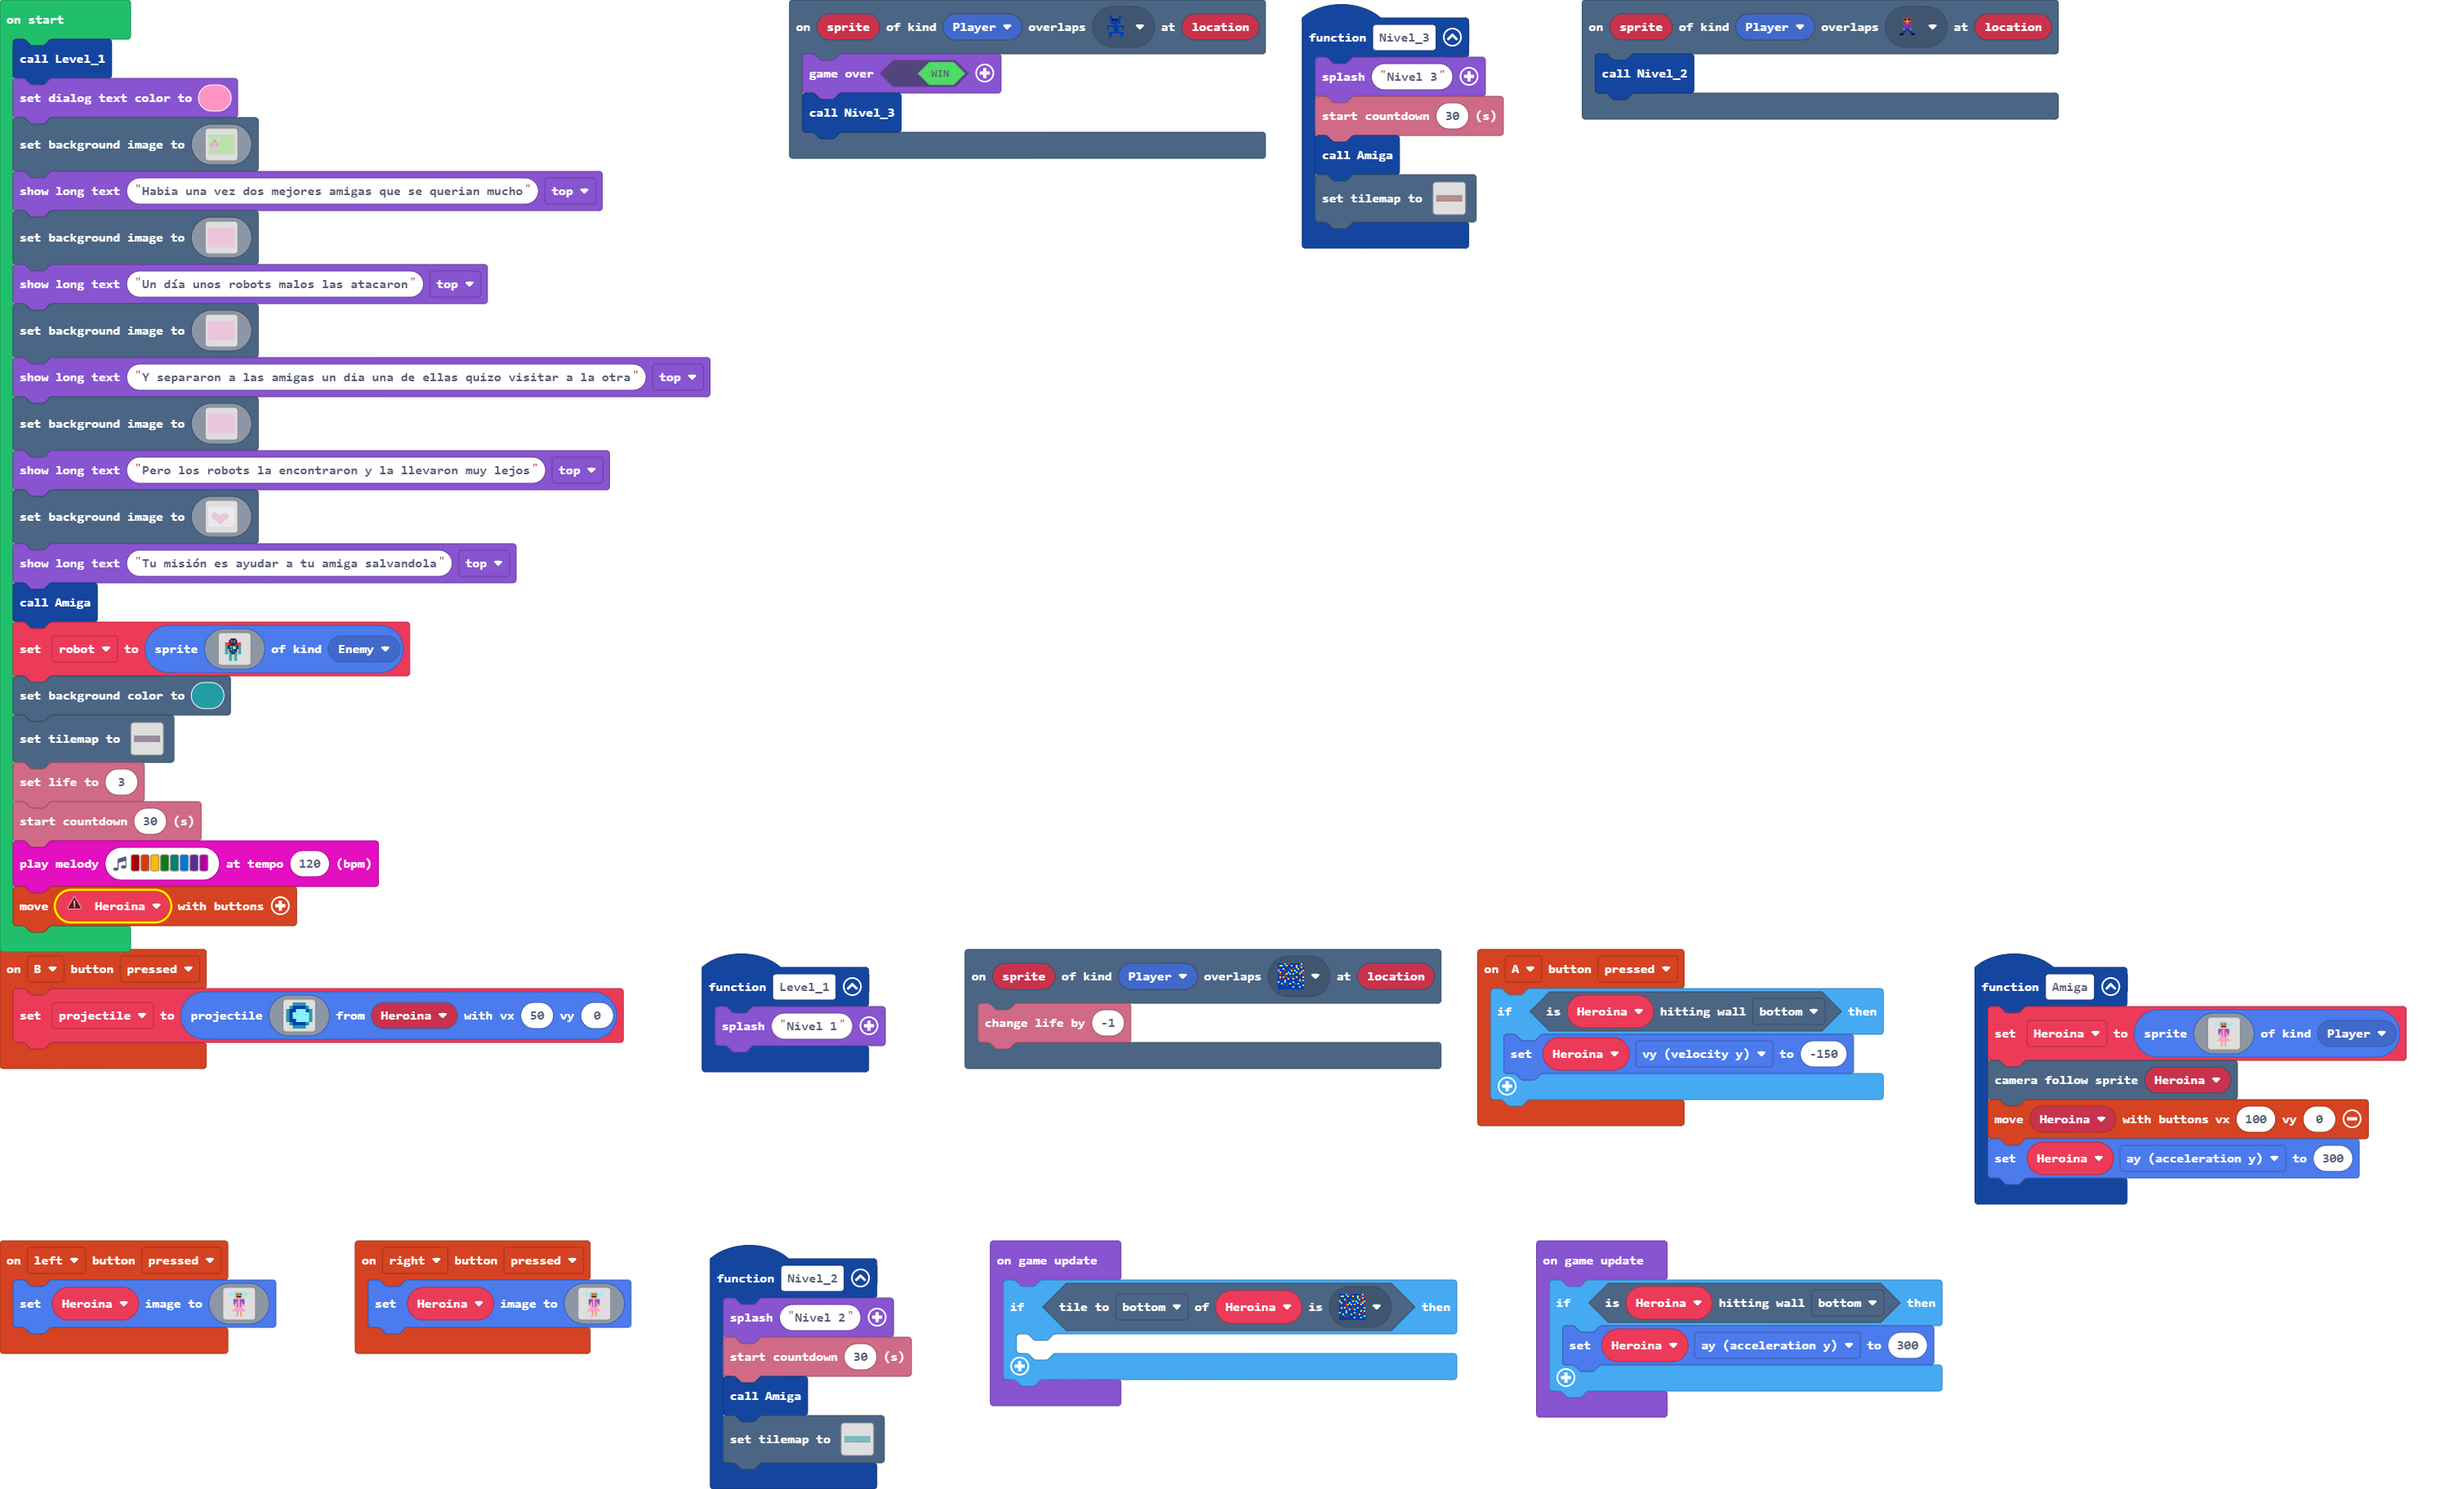
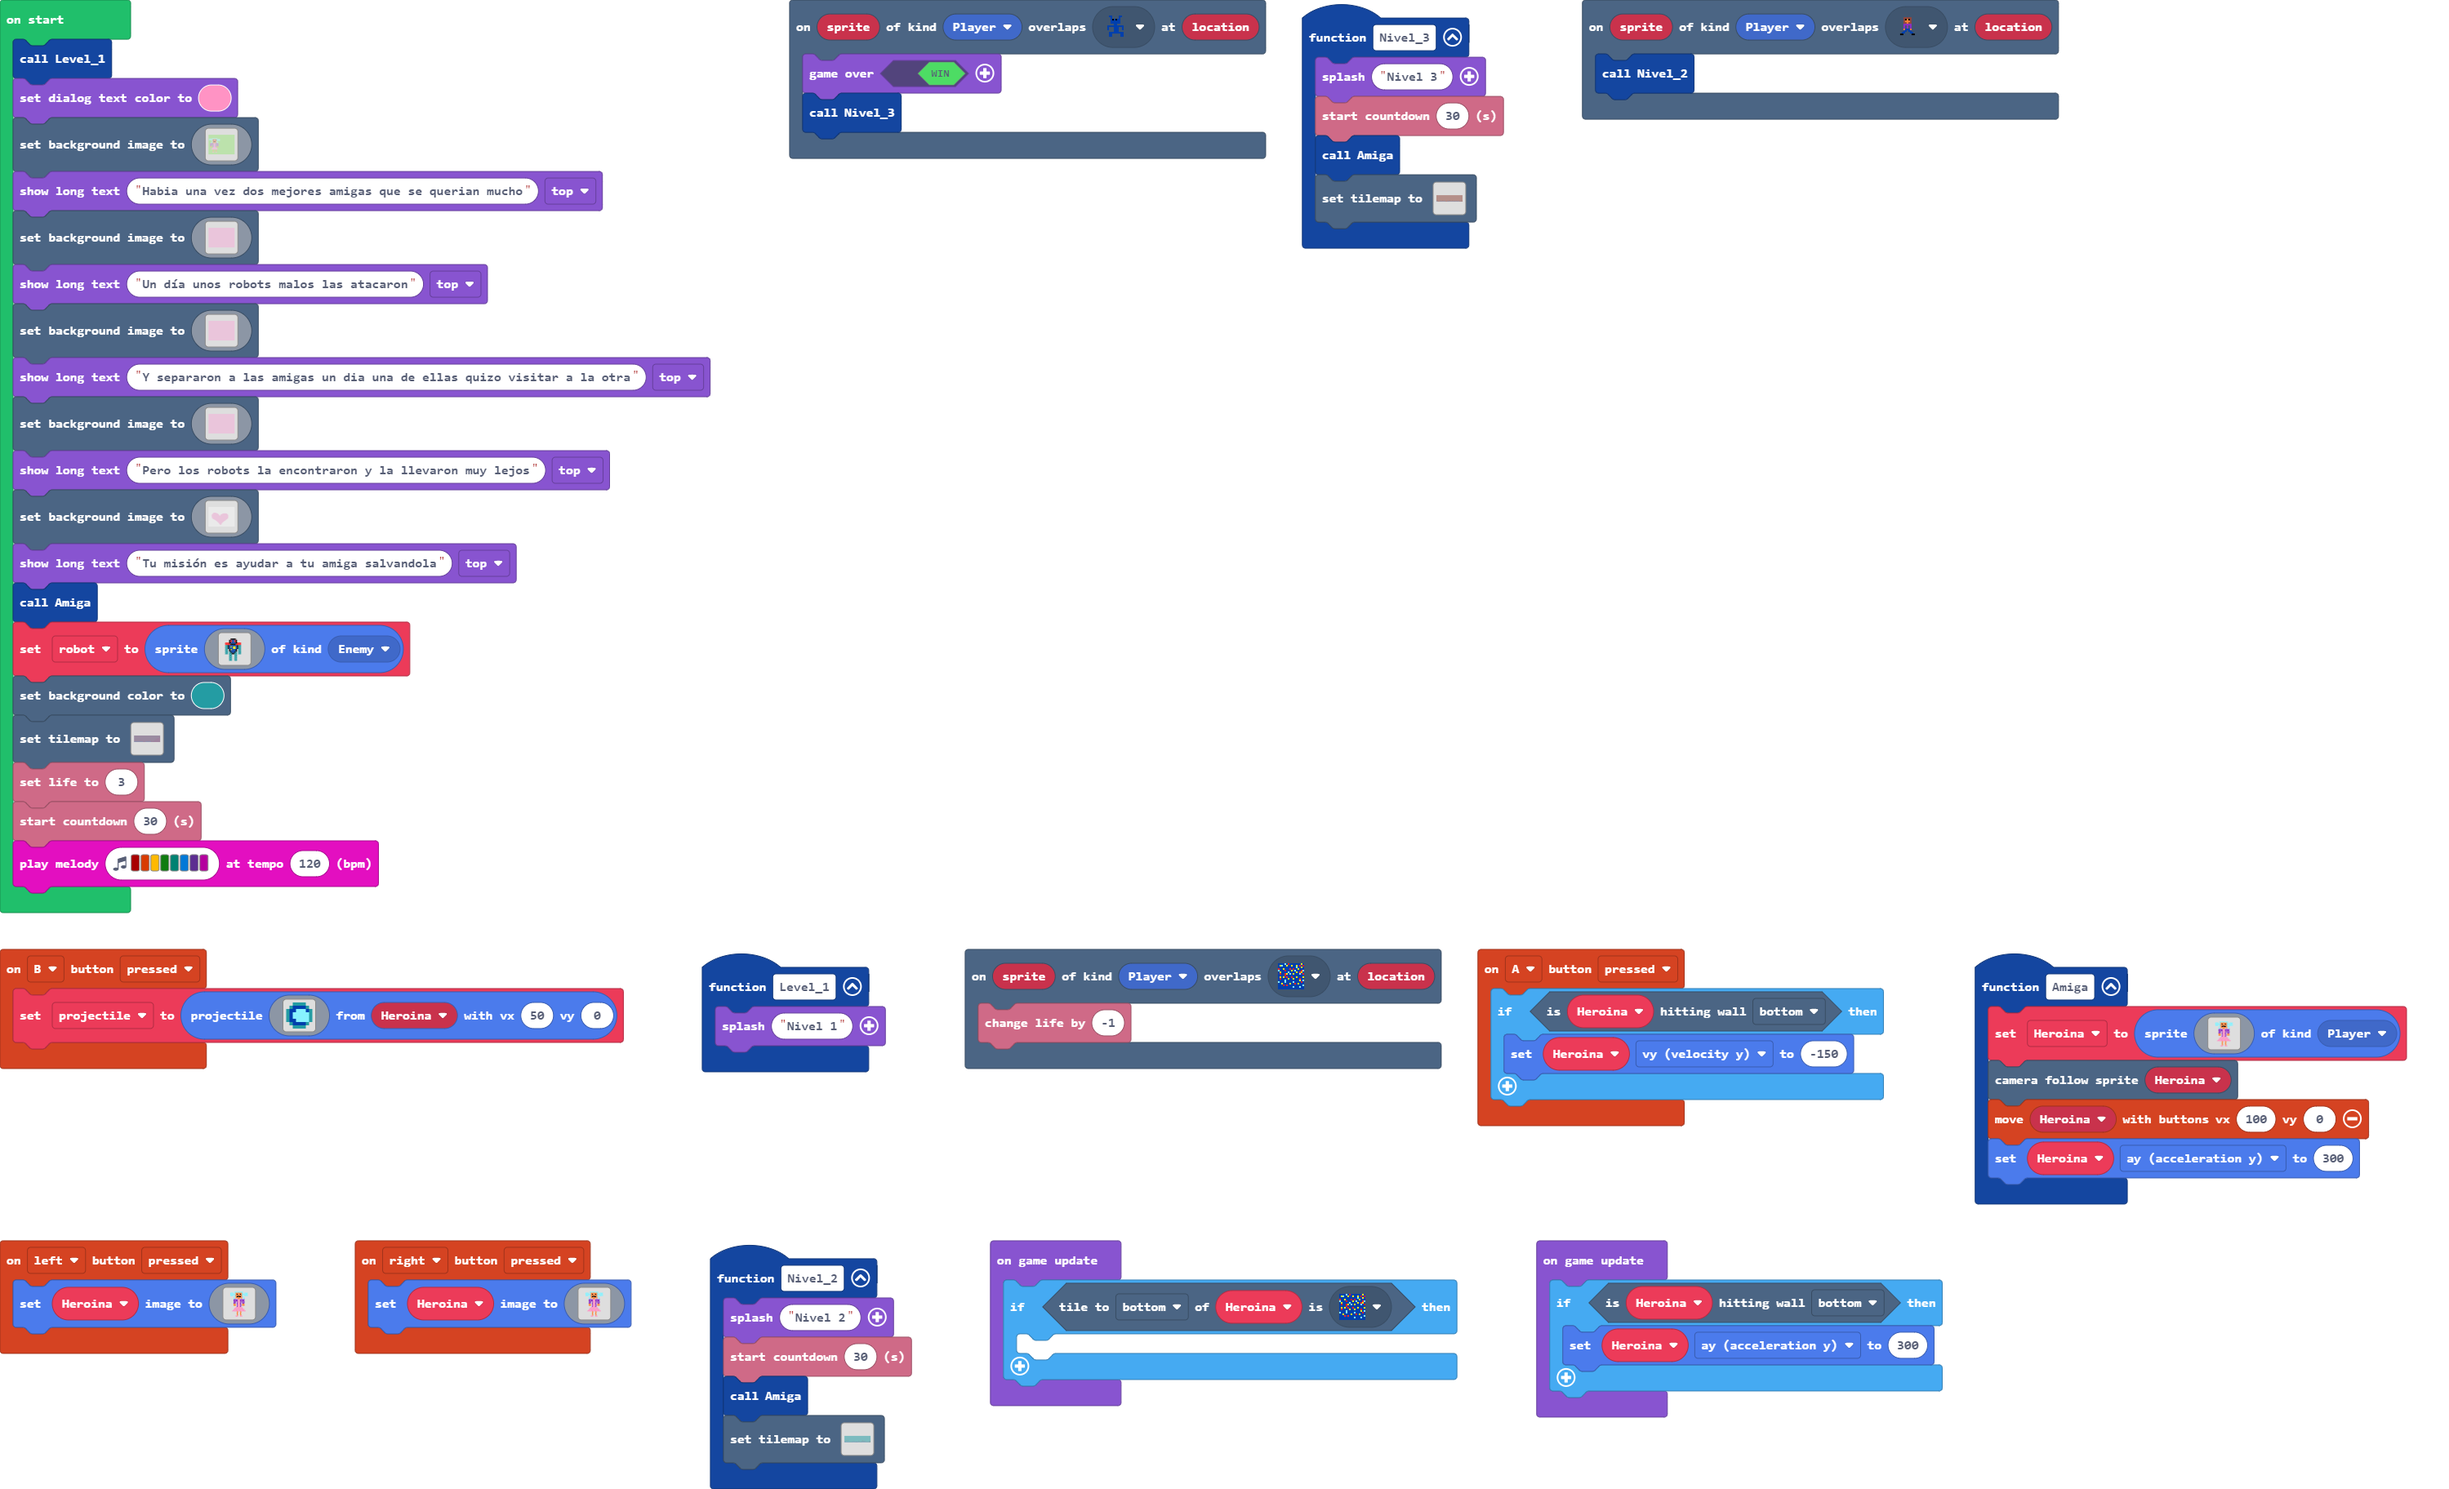
borre codigo de prueba

Changed region(s): [[0.0, 0.5938, 0.124, 0.6562]]

diff --git a/main.ts b/main.ts
@@ -165,8 +165,8 @@ function Nivel_2 () {
         . . . . . . . . . . . . 2 2 2 2 2 . . . . . . . . . . . . . . . . . . . . 2 2 2 . . . . . . . . . . . . . . 2 2 2 . . . . 2 2 2 
         `, [myTiles.transparency16,myTiles.tile3,myTiles.tile4,myTiles.tile9,myTiles.tile11], TileScale.Sixteen))
 }
-let projectile: Sprite = null
 let Heroina: Sprite = null
+let projectile: Sprite = null
 Level_1()
 game.setDialogTextColor(3)
 scene.setBackgroundImage(img`
@@ -829,7 +829,6 @@ tiles.setTilemap(tiles.createTilemap(hex`400010000303030303030303030303030303030
 info.setLife(3)
 info.startCountdown(30)
 music.playMelody("C5 B A G F E D C ", 120)
-controller.moveSprite(Heroina)
 game.onUpdate(function () {
     if (Heroina.tileKindAt(TileDirection.Bottom, myTiles.tile4)) {
     	
